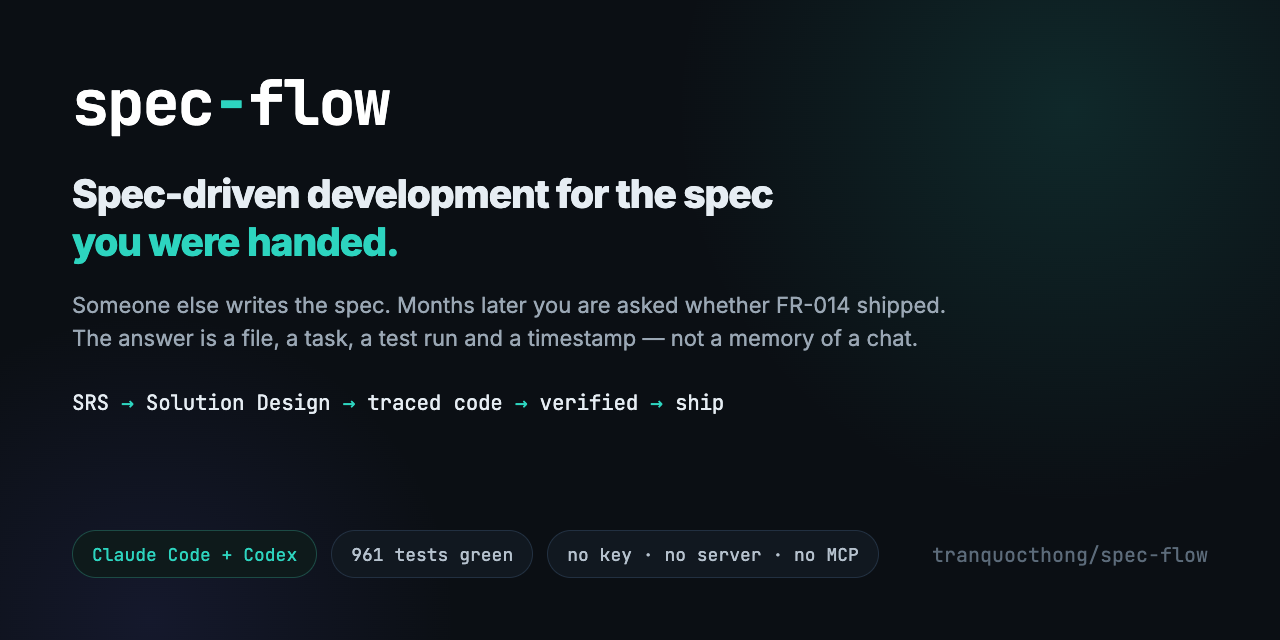
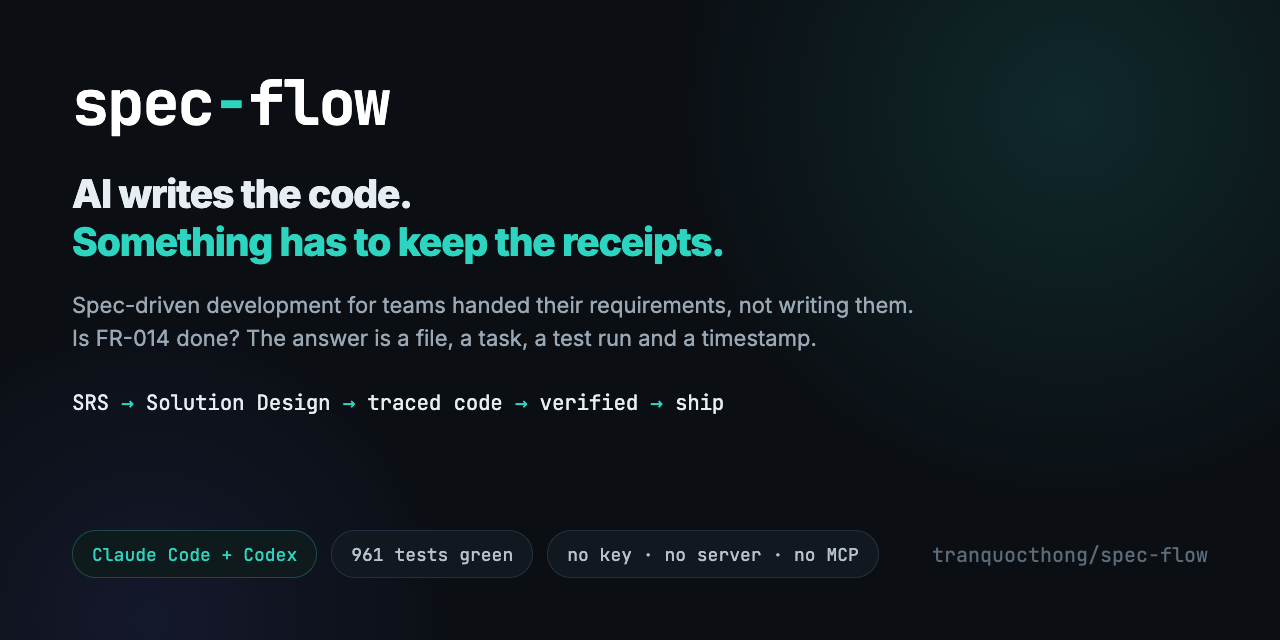
docs(readme): new opening line, and drop an unsupported detail
The opening asked the reader to decode a positioning line before it said
anything. Lead with what is actually at stake once an agent writes the code, and
let the paragraph under it carry the specifics. Also removes a page count for the
input document that was never measured.

Changed region(s): [[0.0312, 0.2812, 0.625, 0.4062], [0.0625, 0.4688, 0.75, 0.5625]]

diff --git a/README.md b/README.md
@@ -1,14 +1,14 @@
 # spec-flow
 
-**Spec-driven development for the spec you were handed.**
+**AI writes the code. Something has to keep the receipts.**
 
 [![release](https://img.shields.io/github/v/release/tranquocthong/spec-flow)](https://github.com/tranquocthong/spec-flow/releases)
 [![license](https://img.shields.io/github/license/tranquocthong/spec-flow)](LICENSE)
 [![codex release](https://github.com/tranquocthong/spec-flow/actions/workflows/codex-release.yml/badge.svg)](https://github.com/tranquocthong/spec-flow/actions/workflows/codex-release.yml)
 
-Most spec-driven tools assume you write the spec together with the AI. Plenty of teams don't
-work that way. A BA, a product owner or a client hands you a forty-page SRS, and months later
-someone asks whether FR-014 was implemented and how you know.
+Spec-driven development for teams who are handed their requirements rather than writing
+them. A BA, a product owner or a client sends you an SRS; months later someone asks whether
+FR-014 was implemented, and how you know.
 
 spec-flow takes that SRS — messy, inconsistently shaped, English or Vietnamese — and turns it
 into a Solution Design you approve once. From there the agent implements each requirement,
